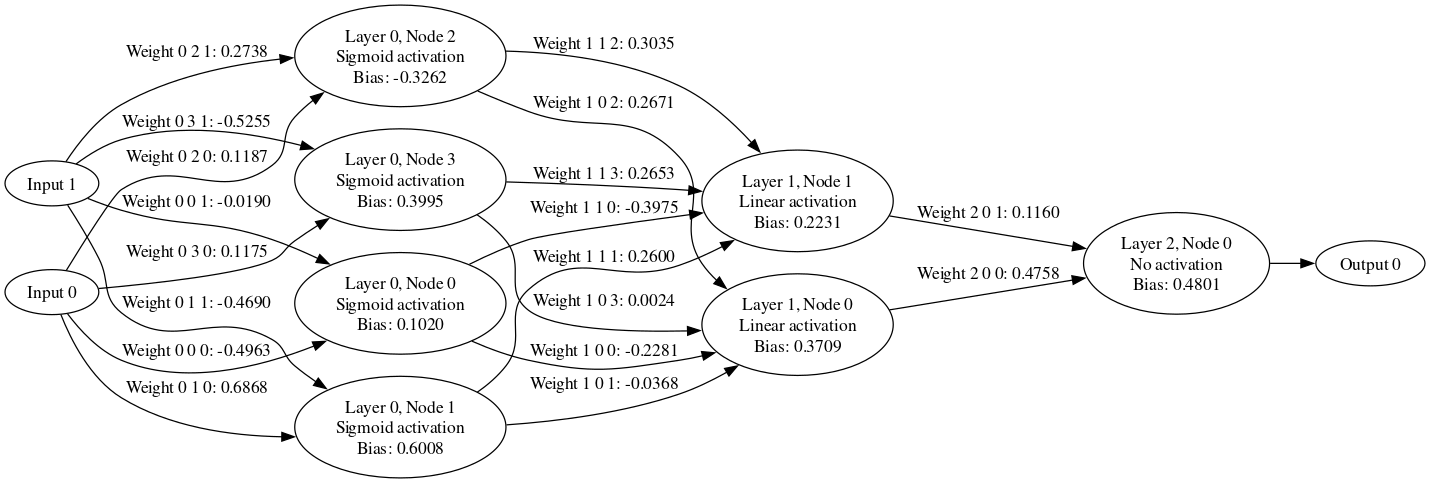
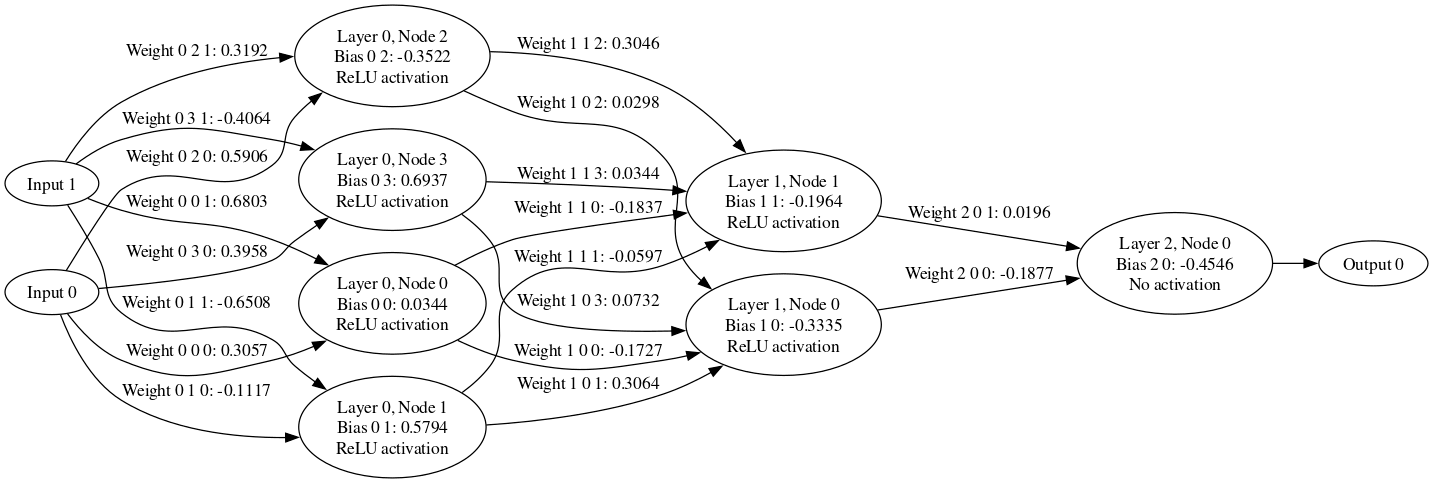
support for PReLu, refactorings

diff --git a/pt_fc_layers_viz/visualize.py b/pt_fc_layers_viz/visualize.py
@@ -1,5 +1,8 @@
+from typing import Literal
 from graphviz import Digraph
-from IPython.display import display, SVG
+from IPython.display import display, SVG, Image
+
+PT_ACTIVATION_FN_NAMES = ["Threshold", "ReLU", "RReLU", "Hardtanh", "ReLU6", "Sigmoid", "Hardsigmoid", "Tanh", "SiLU", "Mish", "Hardswish", "ELU", "CELU", "SELU", "GLU", "GELU", "Hardshrink", "LeakyReLU", "LogSigmoid", "Softplus", "Softshrink", "MultiheadAttention", "PReLU", "Softsign", "Tanhshrink", "Softmin", "Softmax", "Softmax2d", "LogSoftmax"]
 
 def get_pt_fc_layers(pt_fc_model):
     params_per_layer = {}
@@ -15,7 +18,10 @@ def get_pt_fc_layers(pt_fc_model):
 
         if is_weight:
             params_per_layer[layer_id]['weights'] = param.data
-            params_per_layer[layer_id]['input_size'] = param.shape[1]
+            try:
+                params_per_layer[layer_id]['input_size'] = param.shape[1]
+            except IndexError:
+                params_per_layer[layer_id]['input_size'] = param.shape[0]
             params_per_layer[layer_id]['output_size'] = param.shape[0]   
         elif is_bias:
             params_per_layer[layer_id]['biases'] = param.data
@@ -24,21 +30,33 @@ def get_pt_fc_layers(pt_fc_model):
     named_modules = list(pt_fc_model.named_modules())
 
     # Add activation information
-    for i, (name, param) in enumerate(named_modules):
+    for i, (layer_id, param) in enumerate(named_modules):
+        # Remove layer if it's an activation
+        if param.__class__.__name__ in PT_ACTIVATION_FN_NAMES and layer_id in layer_ids:
+            del params_per_layer[layer_id]
+
         if i + 1 == len(named_modules):
-            break # End of list is the next module
+            break # End of list is the next module, so no more activations to add
         
-        if name in layer_ids:
+        if layer_id in layer_ids:
             # Adding next module after this module
-            layer_id = name.rsplit('.', 1)[1]
             _, param_next = named_modules[i + 1]
-            params_per_layer[name]['activation'] = param_next.__class__.__name__
+            if param_next.__class__.__name__ in PT_ACTIVATION_FN_NAMES:
+                params_per_layer[layer_id]['activation'] = param_next.__class__.__name__
+                try:
+                    params_per_layer[layer_id]['activation_param'] = param_next.weight.data
+                except AttributeError:
+                    params_per_layer[layer_id]['activation_param'] = None
     del named_modules
+    del layer_ids
 
     # Rectify layer names in params_per_layer from layers.0 to layer.1, etc.
-    for i, layer_id in enumerate(layer_ids):
-        params_per_layer[f'layer.{i}'] = params_per_layer.pop(layer_id)
-    del layer_ids
+    for i, layer_id in enumerate(params_per_layer.keys()):
+        try:
+            layer = params_per_layer.pop(layer_id)
+        except KeyError:
+            continue
+        params_per_layer[f'layer.{i}'] = layer
 
     layers = list(params_per_layer.items())
     return layers
@@ -52,39 +70,45 @@ def dot_case_to_pascal_case(node_id):
     return node_id
 
 
-def draw_pt_fc_layers(pt_fc_model, param_val=True):
+def draw_pt_fc_layers(
+    pt_fc_model, *, param_val=True, display_img=True, 
+    format: Literal['svg', 'png', 'jpeg', 'jpg'] = 'svg',
+    rankdir: Literal['LR', 'TB'] = 'LR'
+) -> Digraph:
     layers = get_pt_fc_layers(pt_fc_model)
-
-    dot = Digraph(format='svg', graph_attr={'rankdir': 'LR'})
+    
+    dot = Digraph(format='svg', graph_attr={'rankdir': rankdir})
 
     for i, (layer_id, layer_params) in enumerate(layers):
         input_size = layer_params['input_size']
         output_size = layer_params['output_size']
-        
+
         # If this is the first layer, add the input nodes, in reverse order
         if i == 0:
             for i_is in range(input_size):
-                input_node_id = f'input.{i_is}'
-                dot.node(input_node_id, f'Input {i_is}')
+                dot.node(f'input.{i_is}', f'Input {i_is}')
 
         # Add a node per layer and a connection per input for each new node
         for i_os in range(output_size):
             node_id = f'{layer_id}.node.{i_os}'
-            bias_str = f"Bias: {layer_params['biases'][i_os]:.4f}" if param_val else ''
-            dot.node(node_id, f"{dot_case_to_pascal_case(node_id)}\n{layer_params.get('activation', 'No')} activation\n{bias_str}")
-            
+            bias_str = f"Bias {i} {i_os}: {layer_params['biases'][i_os].item():.4f}" if param_val else f'Bias {i} {i_os}'
+            activation_param = layer_params.get('activation_param')
+            activation_str = f"{layer_params.get('activation', 'No')} activation: {activation_param.item():.4f}" if param_val and activation_param is not None else f"{layer_params.get('activation', 'No')} activation"
+            dot.node(node_id, f"{dot_case_to_pascal_case(node_id)}\n{bias_str}\n{activation_str}")
+
             # For each node in the previous layer, add a connection
-            if i > 0 and i < len(layers):
+            if i > 0:
                 for i_is in range(input_size):
-                    prev_layer_id = f'{layers[i - 1][0]}.node.{i_is}'
-                    weight_str = f"Weight {i} {i_os} {i_is}: {layer_params['weights'][i_os][i_is]:.4f}" if param_val else f"Weight {i} {i_os} {i_is}"
-                    dot.edge(prev_layer_id, node_id, label=weight_str)
-            
+                    prev_node_id = f'{layers[i - 1][0]}.node.{i_is}'
+                    weight_str = f"Weight {i} {i_os} {i_is}: {layer_params['weights'][i_os, i_is].item():.4f}" if param_val else f"Weight {i} {i_os} {i_is}"
+                    dot.edge(prev_node_id, node_id, label=weight_str)
+
             # If this is the last layer, add the output nodes
             if i == len(layers) - 1:
-                output_node_id = f'output.{i_os}'
-                dot.node(output_node_id, f'Output {i_os}')
-                dot.edge(node_id, output_node_id)
+                for i_os in range(output_size):
+                    output_node_id = f'output.{i_os}'
+                    dot.node(output_node_id, f'Output {i_os}')
+                    dot.edge(node_id, output_node_id)
 
         # If this is the first layer, add input edges
         if i == 0:
@@ -95,6 +119,14 @@ def draw_pt_fc_layers(pt_fc_model, param_val=True):
                     input_weight_str = f"Weight {i} {i_os} {i_is}: {layer_params['weights'][i_os][i_is]:.4f}" if param_val else f"Weight {i} {i_os} {i_is}"
                     dot.edge(input_node_id, node_id, label=input_weight_str)
 
-    svg = dot.pipe(format='svg')
-    display(SVG(svg))
+    svg = dot.pipe(format=format)
+
+    if display_img:
+        if format == 'svg':
+            display(SVG(svg))
+        elif format in ['jpg', 'jpeg', 'png']:
+            display(Image(svg))
+        else:
+            raise ValueError(f'Unknown format: {format}')
+        
     return dot

diff --git a/README.md b/README.md
@@ -13,13 +13,18 @@ It shows
 
 Install the package via pip: `pip install pt-fc-layers-viz`, then use it as follows in your code:
 
-    ```python
-    from pt_fc_layers_viz import draw_pt_fc_layers
+```python
+from pt_fc_layers_viz import draw_pt_fc_layers
 
-    draw_pt_fc_layers(model) # Optionally without parameter values: draw_pt_fc_layers(model, param_val=False)
-    ```
+draw_pt_fc_layers(model, param_val=True, display_img=True, format='svg', rankdir='LR')
+```
 
-The function will automatically display the visualization. If you would like to save it as svg file, you can call the `.view()` method on the return value of the function.
+- `param_val` (default `True`): Show the parameter values (weights and biases).
+- `display_img` (default `True`): Display the visualization inline in the notebook.
+- `format` (default `'svg'`): The format to use for the visualization. Supported formats are 'svg', 'png', 'jpeg', and 'jpg'.
+- `rankdir` (default `'LR'`): The direction of the graph. Use `'LR'` for left-to-right, and `'TB'` for top-to-bottom.
+
+The function will automatically display the visualization (default setting). If you would like to save it as a file, you can call the `.view()` method on the return value (dot) of the function.
 
 ## Prerequisites
 
@@ -31,9 +36,11 @@ The function will automatically display the visualization. If you would like to 
 
 Neural net with layers:
 
-- (0): Linear(in_features=2, out_features=2, bias=True)
-- (1): Sigmoid()
-- (2): Linear(in_features=2, out_features=1, bias=True)
+    (0): Linear(in_features=2, out_features=4, bias=True)
+    (1): ReLU()
+    (2): Linear(in_features=4, out_features=2, bias=True)
+    (3): ReLU()
+    (4): Linear(in_features=2, out_features=1, bias=True)
 
 With parameter values:
 ![Example Visualization](https://github.com/repetitioestmaterstudiorum/pt_fc_layers_viz/blob/main/assets/example-with-paramts.png?raw=true)
